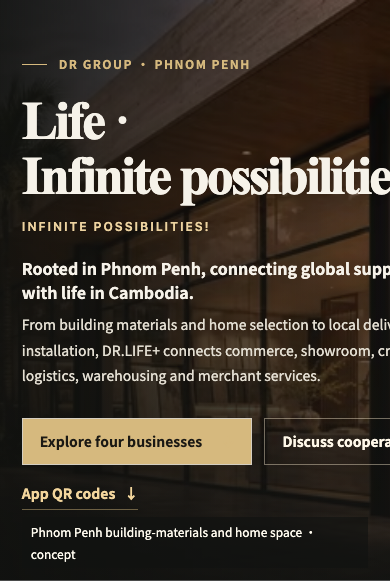
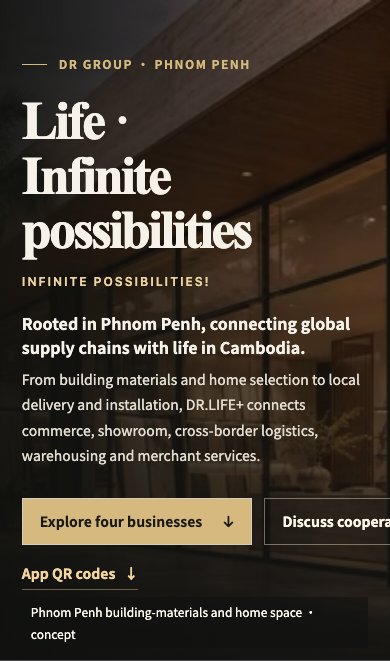
#249 evidence: refresh mobile CTA captures

diff --git a/apps/website/screenshots/README.md b/apps/website/screenshots/README.md
@@ -1,6 +1,6 @@
 # PR #249 visual evidence
 
-Website head: `1b20c3d`; evidence refresh: `a7076cf`
+Website head: `506ba36`; evidence refresh: pending
 
 Full-page height check (static capture, Chinese): 1440px original `6998`,
 implementation `6993` (0.07% difference); 390px original `9387`,
@@ -24,7 +24,10 @@ The required per-section original|new composites for the Chinese 390px and
 `comparisons/sections/<width>/zh/<section>-original-new.png` for header, hero,
 business, route, apps, partners, and footer.
 The capture script validates the same geometry and overflow assertions used by
-CI before writing the images.
+CI before writing the images. The mobile CTA capture also verifies that the
+English actions may wrap without horizontal overflow, while the Chinese 390px
+actions remain on one row; the gold CTA arrow is explicitly rendered with a
+contrasting ink color.
 
 Production Lighthouse is intentionally not claimed here: the repository's
 `WEBSITE_PUBLIC_URL` secret is an external release condition. When configured,
